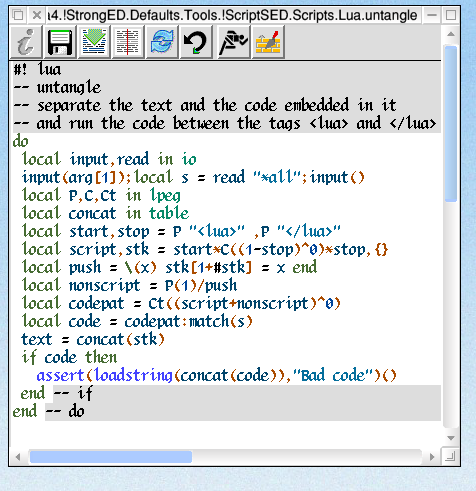
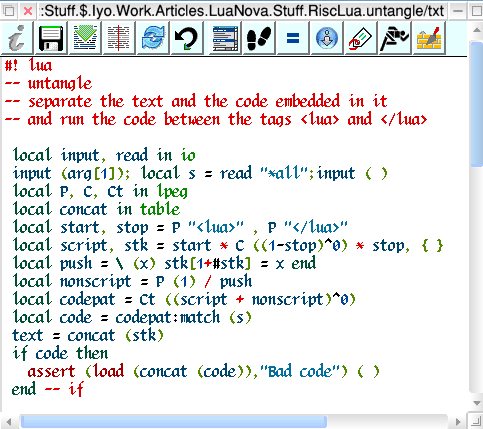
Update Lua RISC OS article
From Gavin Wraith (via email)

diff --git a/content/post/porting-lua-to-risc-os.md b/content/post/porting-lua-to-risc-os.md
@@ -1,55 +1,60 @@
 +++
 title = "Porting Lua to RISC OS"
 date = "2010-03-03"
+revised = "2015-03-06"
 description = "..."
 author = "wra1th"
 +++
 
-I do not expect many users of Lua will have heard of the
-operating system known as RISC OS. They are more likely,
-though, to have heard of the ARM processor architecture.
-The [Wikipedia article](http://en.wikipedia.org/wiki/ARM_architecture) on the ARM
-does not mention that the ARM CPU and RISC OS were
-in fact originally created for each other by Acorn Computers
-Ltd, in Cambridge (UK) in 1988. The article on
-[RISC OS]( http://en.wikipedia.org/wiki/RISC_OS )
-gives the full story.
+RISC OS is euphemistically called a minority operating system.
+The fact that it has become [available on the Raspberry Pi](http://www.raspberrypi.org/downloads/) has probably brought
+it slightly more publicity. The [Wikipedia article on the ARM](http://en.wikipedia.org/wiki/ARM_architecture) does not mention that the ARM cpu and RISC OS were in fact originally created for each other by Acorn Computers
+Ltd, in Cambridge (UK) in 1988. The [Wikipedia article on RISC OS](http://en.wikipedia.org/wiki/RISC_OS) tells the story.
 
-RISC OS offers a very simple interface to user software, via
-the ARM's SWI (SoftWare Interrupt) instruction. Data is passed
-between the user's software and the operating system in ARM
-registers; that data may consist of pointers to buffers in
-memory that hold further data. RISC OS has always contained the
-BBC BASIC programming language. This offers the user means
-of accessing the operating system using:
+RISC OS consists of a small kernel together with Relocatable
+Modules, which implement the means by which the user, or
+the user's software, can interact with the computer. The user is
+free to substitute modules with her own, even those that are
+held in ROM. RISC OS offers a very simple interface to user 
+software, via the ARM's SWI (SoftWare Interrupt) instruction. 
+Data are passed between the user's software and the operating 
+system in ARM registers; the data may consist of pointers to 
+buffers in memory that hold further data. 
 
-* **DIM** -- to reserve a block of memory of a given size and pass
+RISC OS has always incorporated the BBC BASIC programming language. 
+This offers access to the operating system with:
+
+1. DIM -- reserve a block of memory of a given size and pass
 back its address;
-* Indirection operators ! (for words), ? (for bytes) and $ (for strings);
-* **SYS** -- to call an SWI with given values in the registers on entry
+
+2. Indirection operators `!` (for words), `?` (for bytes) and `$` (for strings);
+
+3. SYS -- call an SWI, with given values in the registers on entry
 and variables to receive register values on exit;
-* an inbuilt ARM assembler and a **CALL** command to link to assembled code.
+
+4. an inbuilt ARM assembler and a CALL command to link to assembled code.
 
 With these facilities BBC BASIC is sufficiently powerful to enable
-a user to control every aspect of her machine, if she is equipped
-with the RISC OS PRMs (Programming Reference Manuals) -
-these give details, for each of the modules constituting RISC OS, the
-protocols and input/output details for each of the SWIs available,
+a user to control almost every aspect of the machine; presuming that 
+she has a copy of the RISC OS PRMs (Programming Reference Manuals)
+to consult. These give details, for each of the modules constituting 
+RISC OS, the entry/exit protocols for each of the SWIs available, 
 and of the messages by which the kernel communicates with the modules.
 
-Acorn Computers Ltd started out as manufacturers of laboratory equipment.
-Their computers (with the exception of the RISCix work stations)
-were always intended as single-user machines over which the user has
-total control. Security? An irrelevance in those days. Just as
-today's motorist almost certainly does not carry a set of tappet-calipers
-in his hip-pocket and has never disassembled a carburettor on the
-kitchen table, so modern computer-owners are unlikely to want to
-know about SWIs or programming. But RISC OS developed in an era
-when computers had only just become affordable, and there was a sizable
-minority of people who wanted not just to do things with their
-computer but to understand how it did them, and how they could control it.
+Acorn Computers Ltd started out as manufacturers of laboratory 
+equipment. Their computers (with the exception of the RISCix work 
+stations) were always intended as single-user machines over which 
+the user had total control. Security? An irrelevance in those days. 
+Just as today's motorist almost certainly does not carry a set of 
+tappet-gauges in his hip-pocket and has never disassembled a 
+carburettor on the kitchen table, so a modern computer-owner is 
+unlikely to want to know about SWIs or programming. But RISC OS 
+developed in an era when computers had only just become affordable.
+There was a sizable minority of people which wanted not just to do 
+things with the computer but to understand how it did them. 
 In the end it was the association with education that did for Acorn
-Computers Ltd and for RISC OS, after ARM Holdings Ltd had been split off.
+Computers Ltd and for RISC OS, after ARM Holdings Ltd had been split 
+off.
 
 Porting Unix or Windows software to RISC OS is fraught with problems.
 RISC OS uses cooperative, not preemptive, multitasking. The RISC OS
@@ -59,55 +64,55 @@ have a filetype attribute that is not part of the object's name.
 
 RISC OS filing systems were designed on the supposition that they
 were part of a graphical user interface - the GUI is not just
-something tacked on later to a commandline interface. When a user
+something bolted on later to a commandline interface. When a user
 clicks on the icon of an object in a directory-window the window
 manager broadcasts a message to all running tasks:
 
-    An object at coordinates (x,y) with pathname obj_name and
-    filetype obj_type has just been clicked on. Are any of you
-    guys interested?
+>"An object at coordinates (x,y) with pathname obj_name and
+ filetype obj_type has just been clicked on. Are any of you
+ guys interested?".
 
 If a task is interested it sends back an acknowledgment (so that
 the broadcast is aborted) and has its way with the object. If no
 task replies, the taskmanager looks to see if a system command
-(a sort of environment macro) **Alias$@RunType_xxx** has been defined,
-where xxx are the hexadecimal digits of **obj_type**. If it has,
-it is executed with **obj_name** as a commandline argument.
-This command generally starts up a task and passes on its argument
-to it. There is a special type for command files - known as
-"obeyfiles". An obeyfile always "knows" where it is because the
-operating system sets the variable **Obey$Dir** to the pathname of the
-directory containing it when it is executed. Textfiles constitute
-a special type. Holding down the SHIFT key when clicking a file
-will always open it in a text editor (even if the user has not
-installed a text editor - there is a basic multifile texteditor
-incorporated in the OS, so fundamental is the role of editing
-ASCII text - the same principle applies to graphics, both
-bit-mapped and vector). Each type of object is displayed by
-its own icon, apart from application directories.
+(a sort of environment macro) `Alias$@RunType_xxx` has been defined,
+where xxx are the hexadecimal digits of obj_type. If it has,
+it is executed with obj_name as a commandline argument.
+This command generally starts up a task and passes on its 
+arguments to it. There is a special type for command files - 
+known as "obeyfiles". An obeyfile always "knows" where it is 
+because the operating system sets the variable Obey$Dir to the 
+pathname of the directory containing it when it is executed. 
+Textfiles constitute a special type. Holding down the SHIFT key 
+when clicking a file will always open it in a text editor (even 
+if the user has not installed a text editor - there is a basic 
+multifile texteditor incorporated in the OS, so fundamental is 
+the role of editing ASCII text - the same principle applies to 
+graphics, both bit-mapped and vector). Each type of object is 
+displayed by its own icon, apart from application directories.
 
 RISC OS has two types of directory. There are ordinary directories,
 and there are application directories.
 
-- Click on the icon of an ordinary directory with the left mouse
+ Click on the icon of an ordinary directory with the left mouse
  button and its window will open; with the right mouse button and
  the currently open directory window containing it will simultaneously
  close - this makes navigation and the avoidance of window clutter
  very simple and direct - no opening of menus needed.
 
-- Application directories behave differently. Their appearance is
+ Application directories behave differently. Their appearance is
  governed by a file inside them called !Sprites - a bit-mapped graphics
  file. Click an application directory and the obeyfile !Run inside it
  will be executed. To open an application directory like an
  ordinary directory you must depress the SHIFT key when you click.
 
 The point about application directories is that they can be treated
-as a package. There is no such thing as installing or deinstalling
+as packages. There is no such thing as installing or deinstalling
 or registering an application. You simply load the application
-directory to wherever you want in the filing system and it will
-be launched when you click on it. To deinstall, simply delete it.
+directory to wherever you want it to be in the filing system and it 
+will be launched when you click on it. To deinstall, simply delete it.
 This independence of position is achieved by a file called !Boot
-within an application. It is executed when the window manager is
+within the application. It is executed when the window manager is
 first made aware of the application's existence by the opening of
 the window of the directory containing it; this action can be
 suppressed by holding down the CTRL key when opening a directory
@@ -143,16 +148,16 @@ if any, get this right.
 Of course, applications in read-only filing systems may need to
 rent space for their configuration files on another, writable filing
 system. RISC OS is usually held in ROM, so startup and switchoff are
-immediate. I can switch on both my computers, one RISC OS, an Iyonix,
-and the other Windows XP, an Advent 4211 notebook, at the
+immediate. I can switch on both my computers, one RISC OS, a
+Raspberry Pi and the other Windows XP, an Advent 4211 notebook, at the
 same time, and by the time the Advent is ready to use I have
-read my emails, replied to them and switched off the Iyonix.
+read my emails, replied to them and switched off the Raspberry Pi.
 
 I mention all these details so that readers who are only familiar with
 Windows or Unix will understand that there are other operating systems
-which present a very different user experience. Many of the worries
+which present a very different user experience. Many of the worries,
 and tools to deal with them (defragmenting the hard disc, installing
-and removing packages, viruses, rootkits) that the Windows or Unix user
+and removing packages, viruses, rootkits), that the Windows or Unix user
 must take into consideration do not exist for the RISC OS user.
 The other side of the coin is that RISC OS cannot deliver much that
 is now taken for granted - its user base is too small to catch up.
@@ -160,19 +165,19 @@ is now taken for granted - its user base is too small to catch up.
 As BASICs go, BBC BASIC is very good. There is a version for Windows,
 I believe, with many improvements. It is almost unfair to call it
 BASIC, because the facilities I cited above give it a whiff of
-BCPL. Recall that BCPL was developed in Cambridge and was the grand-daddy
-of C. BCPL was untyped. Although I am an admirer of BBC BASIC, I am not
-blind to its limitations as a programming language. For a long time I
-wondered if it were possible to have the best of both worlds:
-something that incorporated the advances in programming language design
-since 1964, BASIC's year of birth, and yet retained the integration
-with the operating system and the ease of use which BBC BASIC can
-boast. I spent many years on different attempts to realize this dream.
-Then I came across Lua.
+BCPL. Recall that BCPL was developed in Cambridge and was the 
+grand-daddy of C. BCPL was untyped. Although I am an admirer of BBC 
+BASIC, I am not blind to its limitations as a programming language. 
+For a long time I wondered if it were possible to have the best of 
+both worlds: something that incorporated the advances in programming 
+language design that have evolved since 1964, BASIC's year of birth, 
+and yet retained the integration with the operating system and the 
+ease of use which BBC BASIC can boast. I spent many years on different 
+attempts to realize this dream. Then I came across Lua.
 
 Lua is portable to any platform with an ANSI C compiler. Lua is a
 modern phenomenon, if we take the development of C as the watershed
-dividing ancient from modern. Lua is safe, and it can make no
+dividing ancient from modern. Lua is safe, and makes no
 assumptions about its host platform; it certainly cannot peek
 or poke memory. RISC OS is unsafe, tied to the ARM architecture, and
 uses memory references. It is written mostly in ARM assembler; it
@@ -182,13 +187,15 @@ relic of the age before C. To marry Lua with RISC OS, to produce
 what I called in an unimaginative moment, RiscLua, these contradictions
 had to be squared.
 
-The first problem is that ARM CPUs tend not to have floating-point
-hardware. Continual conversion between doubles and 32-bit integers would
-be a burden. This problem is solved by #defining LUA_NUMBER to int
-and leaving out the math library. I also extended the Lua VM with bit
+The first problem was that most of the ARM cpus on which, until recently,
+RISC OS was implemented, do not have floating-point hardware. Continual 
+conversion between doubles and 32-bit integers would be a burden. This 
+problem is solved by #defining LUA_NUMBER to int and leaving out the 
+math library. I also extended the Lua virtual machine with bit
 operations, putting them on an equal footing with the other arithmetic
-operations. For those that have to use floating point numbers I
-put in a library implementing doubles in the heap.
+operations. For those that needed big numbers and decimal points I
+incorporated Luiz Henrique Figueiredo's adaptation of Philip A. Nelson's 
+GNU bc library.
 
 To integrate Lua with RISC OS, something along the lines of BBC BASIC's
 DIM,!,?,$ and SYS was needed. To begin with I used userdata for holding
@@ -204,82 +211,54 @@ integers with addresses. This made RiscLua less safe, but faster,
 and allowed a syntax for indirection that was very close to that
 of BBC BASIC - an advantage for users more accustomed to BBC BASIC
 than to anything else. The latest versions of RiscLua have a riscos
-library containing **dim**, **sys**, **!**, **?** and **$** (these are allowable in variable
-names in RiscLua). Where BBC BASIC might have **x!4** RiscLua can have **![x+4]**.
-The symbols **!**,**?** and **$** in the riscos environment are just empty tables
-with metamethods: **__index** peeks and **__newindex** pokes. The **sys** function
-has one little twist that **SYS** does not have: a nil argument for a register
+library containing dim, sys, !, ? and $ (these are allowable in variable
+names in RiscLua). Where BBC BASIC might have x!4 RiscLua can have ![x+4].
+The symbols !,? and $ in the riscos environment are just empty tables
+with metamethods: __index peeks and __newindex pokes. The sys function
+has one little twist that SYS does not have: a nil argument for a register
 value means "use the value returned for that register by the previous
 call to sys". This is useful because the register usage for SWI calls
 in RISC OS has been carefully optimized to minimize shuffling data
 between registers, something which can be exploited by this syntax.
 
-There are a few other extensions: backslash is sugar for **function** and '=>' is sugar
-for **return**.
+There are some syntactic idiosyncracies of RiscLua. A backslash is sugar
+for "function" and "=>" is sugar for "return". Also, after "local", Peter 
+Shook's idea of unpacking tables by name is adopted.
 
-<img src="/images/untangle.png"/>
+![](/images/untangle.png)
 
-This is a
-texteditor window displaying a short RiscLua script that uses Roberto's
-lpeg library to run code enclosed in **&lt;lua&gt; ... &lt;/lua&gt;** tags (with the
-remainder of the text taking the value "text"). The point of the picture
-is the third icon with the green arrow pointing down.
-If you shift-drag the icon of a scriptfile onto the green arrow of
-a texteditor window, the script is run (with **arg[1]** holding the
-name of a pseudofile containing the contents of the window) and the
-contents of the window are replaced by the standard output of the
-script. This provides the texteditor with a convenient facility -
-any scripting language can be used so long as the texteditor has been
-configured to understand the right command line syntax for it.
-In this case, shift dragging "untangle" onto the green arrow of a
-window containing "&lt;lua&gt;print(text:upper())&lt;/lua&gt;hello" would
-convert its contents to "HELLO". Yes, I know it is contrived, but
-I hope it shows the general principle.
+This is a texteditor window displaying a short RiscLua script that uses 
+Roberto's lpeg library to run code enclosed in <lua></lua> tags (with the 
+remainder of the text taking the value "text"). The point of the picture is 
+the third icon with the green arrow pointing down. If you shift-drag the icon 
+of a scriptfile onto the green arrow of a texteditor window, the script is 
+run; arg[1] holds the name of a pseudofile containing the contents of 
+the window and the standard output of the script becomes the new content. 
+This provides the texteditor with a convenient facility - any scripting language 
+can be used if the texteditor has been configured appropriately. In this case, 
+shift dragging "untangle" onto the green arrow of a window containing: 
 
-<img src="/images/porting-lua-to-risc-os.png"/>
+    <lua>print(text:upper())</lua>hello 
 
-This shows the final dialogue box when the
-following program is run.
+would convert its contents to "HELLO". Yes, it is contrived, but I hope it 
+shows the general principle.
 
-{{< highlight lua >}}
--- Fred, tiny wimp program using error dialogue
-require "wimp.task"
-do
- local dim,! in riscos
- local buffer, wimp_msgs = dim(256), dim(4)
- local title$ = dim "Fred\r"
- local ask = "Count is %d. CANCEL to stop now?"
- local goodbye = "You reached %d. Goodbye."
- local flags = 23  -- for dialogue window
- ![wimp_msgs] = 0  -- no wimp messages
- fred = task.new(title$,wimp_msgs,buffer)   -- create task "fred"
- in fred do
-  count = 0                      -- give it a counter
-  handler[0] = \ (self)      -- give it a null-event handler
-    count = count + 1
-    local click = self:report(ask:format(count),flags)
-    => (click ~= 1)          -- OK button to continue
-  end -- handler
-  preclosedown = \ (self)     -- give it a farewell action
-     self:report(goodbye:format(count))
-  end -- preclosedown
- end -- do
- fred:init()                   -- register it
- fred:run()                    -- run it
-end -- do
-{{< /highlight >}}
+![](/images/screen.png)
 
-This is a toy example of a RiscLua wimp program. It puts up a
-window with two buttons, CANCEL for stopping, OK for carrying
-on, and it increments a counter showing the number of times OK is
-clicked. I hope the program is not too opaque. Note the use of
-Peter Shook's patch in **local dim,! in riscos** and the convenient
-syntax provided by lexical environments in **in fred do ... end**.
-The wimp.task library provides a single function **task.new** which
-returns a table, with methods "init", "run", "preclosedown", etc
-and a table, "handler" of event-handlers, indexed by the event-codes
-sent by the taskmanager. Nothing much surprising about this
-approach.
+This shows the final dialogue box when the following program is run.
+
+![](/images/fred.png)
+
+This is a toy example of a RiscLua wimp program. It puts up a window with 
+two buttons, CANCEL for stopping, OK for carrying on, and it increments a 
+counter showing the number of times OK is clicked. I hope the program is 
+not too opaque. The wimp.task library provides a function "task" that takes 
+a string and returns a wimp task in the form of a table, called here "fred". 
+A wimp task is essentially defined by its handlers, a table indexed by
+the events passed back by the task manager of functions with a single argument,
+the task itself. A handler returning a non-nil value causes the task
+to close down, possibly first calling the special preclosedown handler.
+Lua's local environments are very convenient in this context.
 
 I will not pretend that RiscLua can do all the things that BBC BASIC
 can do. It has no inbuilt ARM assembler, it does not have
@@ -290,6 +269,3 @@ fulfils my quest, and still offers plenty of opportunities for
 further development.
 
 RiscLua and its sources are available at http://lua.riscos.org.uk/ .
-
-[Gavin Wraith](http://www.wra1th.plus.com/)
-
